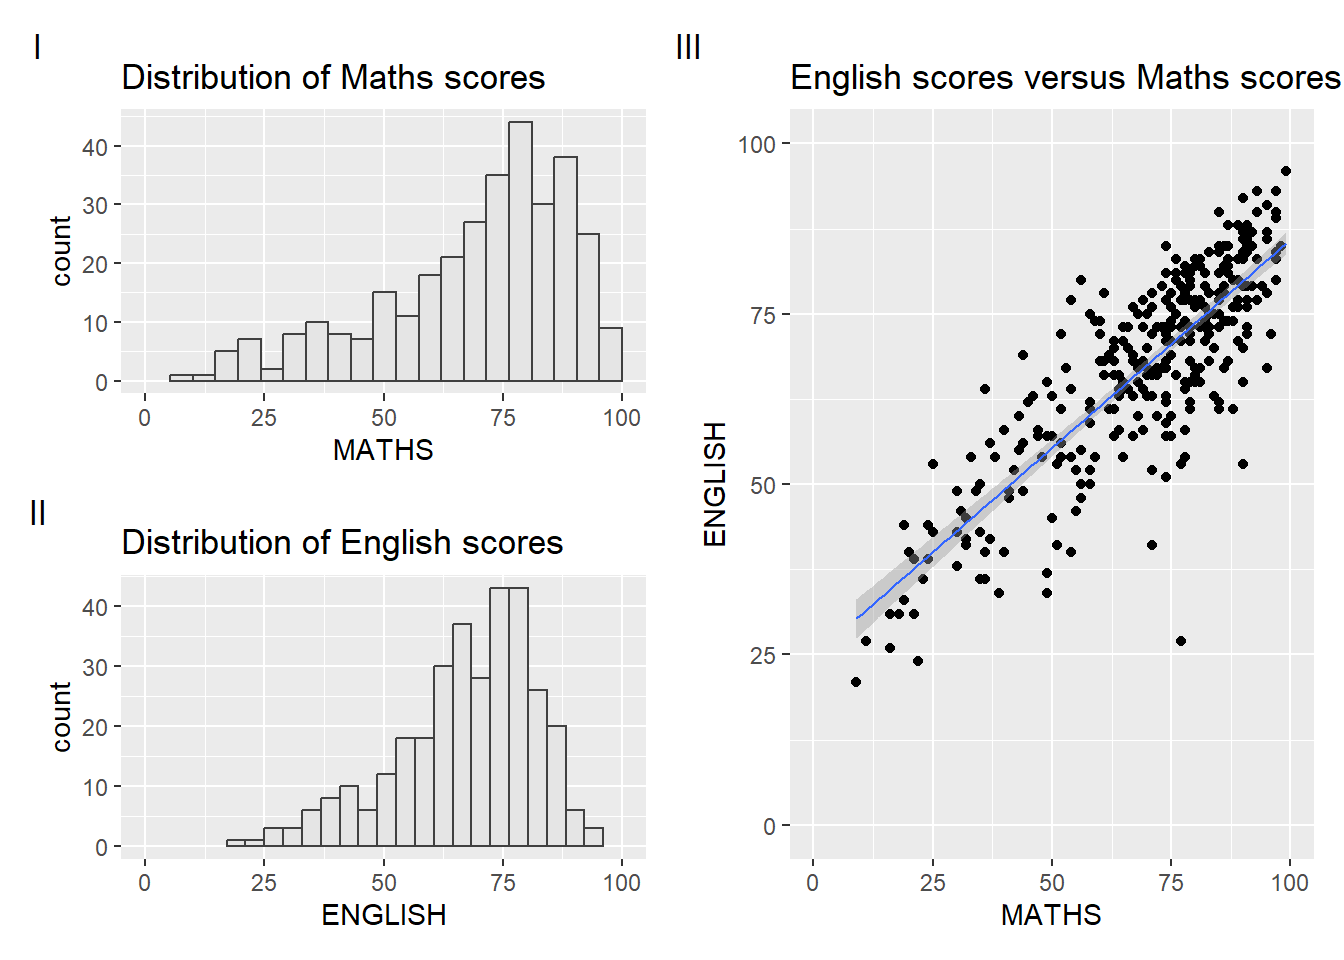
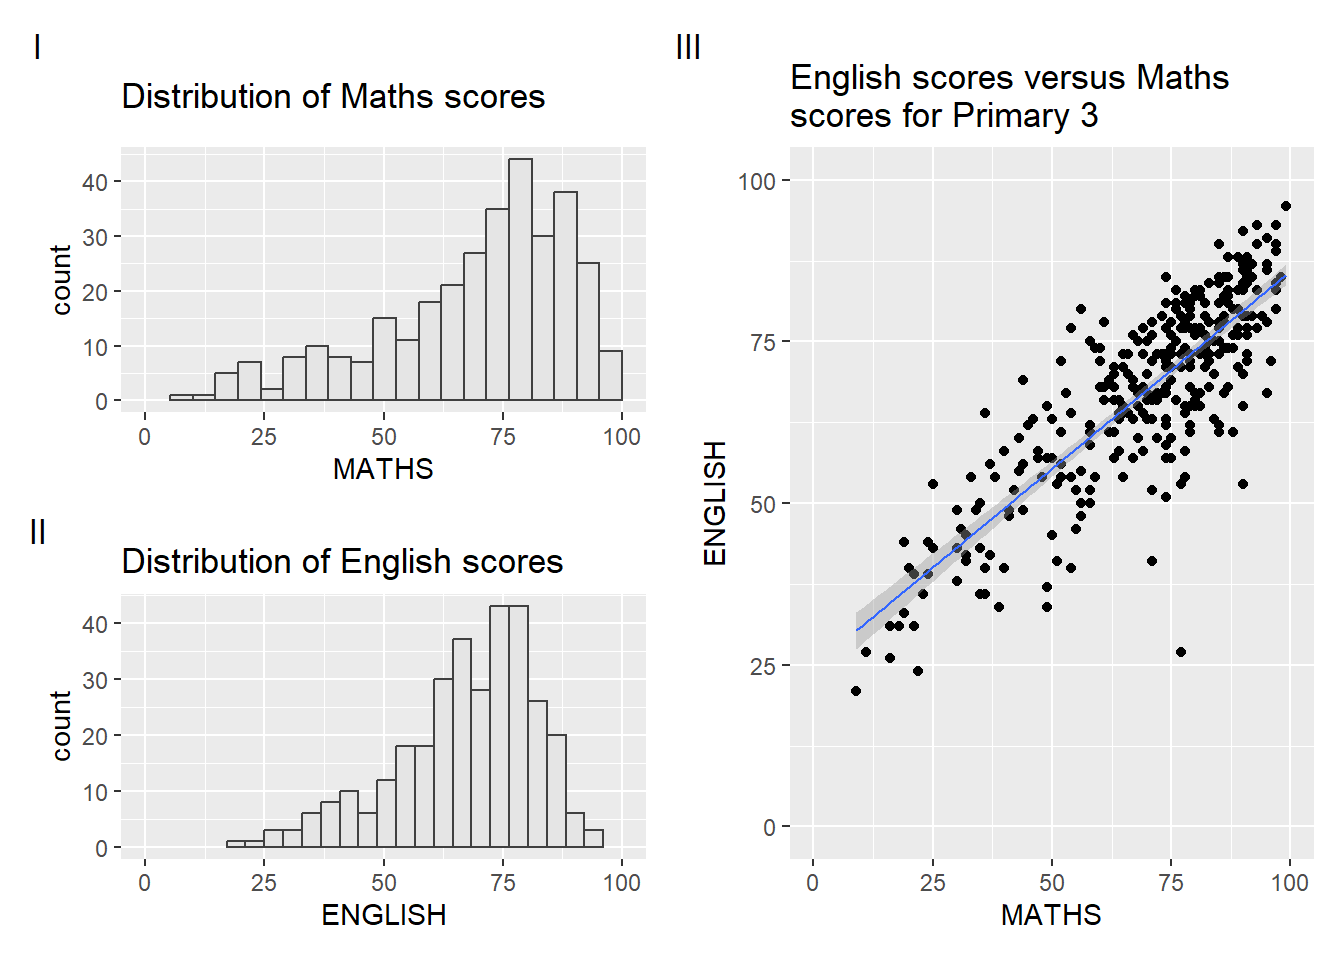
9th commit - Hands on Ex 2 V2

diff --git a/_site/Hands-on-ex/Hands-on-Ex2/Hands-on_Ex2.html b/_site/Hands-on-ex/Hands-on-Ex2/Hands-on_Ex2.html
@@ -123,11 +123,11 @@ pre > code.sourceCode > span > a:first-child::before { text-decoration: underlin
     <ul class="dropdown-menu" aria-labelledby="nav-menu-hands-on-exercises">    
         <li>
     <a class="dropdown-item" href="../../Hands-on-ex/Hands-on-Ex1/Hands-on_Ex1.html" rel="" target="">
- <span class="dropdown-text">Hands-on Exercise 1</span></a>
+ <span class="dropdown-text">Hands-on Exercise 1 - A Layered Grammar of Graphics:ggplot2 methods</span></a>
   </li>  
         <li>
     <a class="dropdown-item" href="../../Hands-on-ex/Hands-on-Ex2/Hands-on_Ex2.html" rel="" target="">
- <span class="dropdown-text">Hands-on Exercise 2</span></a>
+ <span class="dropdown-text">Hands-on Exercise 2 - Beyond ggplot2 fundamentals</span></a>
   </li>  
         <li>
     <a class="dropdown-item" href="../../Hands-on-ex/Hands-on-Ex3/Hands-on_Ex3.html" rel="" target="">
@@ -279,7 +279,7 @@ pre > code.sourceCode > span > a:first-child::before { text-decoration: underlin
     <div>
     <div class="quarto-title-meta-heading">Modified</div>
     <div class="quarto-title-meta-contents">
-      <p class="date-modified">January 10, 2024</p>
+      <p class="date-modified">January 12, 2024</p>
     </div>
   </div>
     
@@ -730,7 +730,7 @@ Note
 <span id="cb22-6"><a href="#cb22-6" aria-hidden="true" tabindex="-1"></a>              <span class="at">size=</span><span class="fl">0.5</span>) <span class="sc">+</span>  </span>
 <span id="cb22-7"><a href="#cb22-7" aria-hidden="true" tabindex="-1"></a>  <span class="fu">coord_cartesian</span>(<span class="at">xlim=</span><span class="fu">c</span>(<span class="dv">0</span>,<span class="dv">100</span>),</span>
 <span id="cb22-8"><a href="#cb22-8" aria-hidden="true" tabindex="-1"></a>                  <span class="at">ylim=</span><span class="fu">c</span>(<span class="dv">0</span>,<span class="dv">100</span>)) <span class="sc">+</span></span>
-<span id="cb22-9"><a href="#cb22-9" aria-hidden="true" tabindex="-1"></a>  <span class="fu">ggtitle</span>(<span class="st">"English scores versus Maths scores for Primary 3"</span>)</span>
+<span id="cb22-9"><a href="#cb22-9" aria-hidden="true" tabindex="-1"></a>  <span class="fu">ggtitle</span>(<span class="st">"English scores versus Maths</span><span class="sc">\n</span><span class="st">scores for Primary 3"</span>)</span>
 <span id="cb22-10"><a href="#cb22-10" aria-hidden="true" tabindex="-1"></a></span>
 <span id="cb22-11"><a href="#cb22-11" aria-hidden="true" tabindex="-1"></a>plot3</span></code><button title="Copy to Clipboard" class="code-copy-button"><i class="bi"></i></button></pre></div>
 </details>
@@ -806,6 +806,10 @@ The composite figure below was plotted using</p>
 <section id="creating-a-composite-figure-with-tags" class="level2">
 <h2 class="anchored" data-anchor-id="creating-a-composite-figure-with-tags">2.5.4 Creating a composite figure with tags</h2>
 <p>In order to identify subplots in text,&nbsp;<strong>patchwork</strong>&nbsp;also provides auto-tagging capabilities as shown in the figure below.</p>
+<div class="tabset-margin-container"></div><div class="panel-tabset">
+<ul class="nav nav-tabs" role="tablist"><li class="nav-item" role="presentation"><a class="nav-link active" id="tabset-5-1-tab" data-bs-toggle="tab" data-bs-target="#tabset-5-1" role="tab" aria-controls="tabset-5-1" aria-selected="true">Numerals</a></li><li class="nav-item" role="presentation"><a class="nav-link" id="tabset-5-2-tab" data-bs-toggle="tab" data-bs-target="#tabset-5-2" role="tab" aria-controls="tabset-5-2" aria-selected="false">Digits</a></li><li class="nav-item" role="presentation"><a class="nav-link" id="tabset-5-3-tab" data-bs-toggle="tab" data-bs-target="#tabset-5-3" role="tab" aria-controls="tabset-5-3" aria-selected="false">Letters</a></li></ul>
+<div class="tab-content">
+<div id="tabset-5-1" class="tab-pane active" role="tabpanel" aria-labelledby="tabset-5-1-tab">
 <div class="cell">
 <div class="sourceCode cell-code" id="cb27"><pre class="sourceCode r code-with-copy"><code class="sourceCode r"><span id="cb27-1"><a href="#cb27-1" aria-hidden="true" tabindex="-1"></a>((plot1 <span class="sc">/</span> plot2) <span class="sc">|</span> plot3) <span class="sc">+</span> </span>
 <span id="cb27-2"><a href="#cb27-2" aria-hidden="true" tabindex="-1"></a>  <span class="fu">plot_annotation</span>(<span class="at">tag_levels =</span> <span class="st">'I'</span>)</span></code><button title="Copy to Clipboard" class="code-copy-button"><i class="bi"></i></button></pre></div>
@@ -813,18 +817,39 @@ The composite figure below was plotted using</p>
 <p><img src="Hands-on_Ex2_files/figure-html/unnamed-chunk-25-1.png" class="img-fluid" width="672"></p>
 </div>
 </div>
+</div>
+<div id="tabset-5-2" class="tab-pane" role="tabpanel" aria-labelledby="tabset-5-2-tab">
+<div class="cell">
+<div class="sourceCode cell-code" id="cb28"><pre class="sourceCode r code-with-copy"><code class="sourceCode r"><span id="cb28-1"><a href="#cb28-1" aria-hidden="true" tabindex="-1"></a>((plot1 <span class="sc">/</span> plot2) <span class="sc">|</span> plot3) <span class="sc">+</span> </span>
+<span id="cb28-2"><a href="#cb28-2" aria-hidden="true" tabindex="-1"></a>  <span class="fu">plot_annotation</span>(<span class="at">tag_levels =</span> <span class="st">'1'</span>)</span></code><button title="Copy to Clipboard" class="code-copy-button"><i class="bi"></i></button></pre></div>
+<div class="cell-output-display">
+<p><img src="Hands-on_Ex2_files/figure-html/unnamed-chunk-26-1.png" class="img-fluid" width="672"></p>
+</div>
+</div>
+</div>
+<div id="tabset-5-3" class="tab-pane" role="tabpanel" aria-labelledby="tabset-5-3-tab">
+<div class="cell">
+<div class="sourceCode cell-code" id="cb29"><pre class="sourceCode r code-with-copy"><code class="sourceCode r"><span id="cb29-1"><a href="#cb29-1" aria-hidden="true" tabindex="-1"></a>((plot1 <span class="sc">/</span> plot2) <span class="sc">|</span> plot3) <span class="sc">+</span> </span>
+<span id="cb29-2"><a href="#cb29-2" aria-hidden="true" tabindex="-1"></a>  <span class="fu">plot_annotation</span>(<span class="at">tag_levels =</span> <span class="st">'A'</span>)</span></code><button title="Copy to Clipboard" class="code-copy-button"><i class="bi"></i></button></pre></div>
+<div class="cell-output-display">
+<p><img src="Hands-on_Ex2_files/figure-html/unnamed-chunk-27-1.png" class="img-fluid" width="672"></p>
+</div>
+</div>
+</div>
+</div>
+</div>
 </section>
 <section id="creating-figures-with-insert" class="level2">
 <h2 class="anchored" data-anchor-id="creating-figures-with-insert">2.5.5 Creating figures with insert</h2>
 <p>Besides providing functions to place plots next to each other, we can also use the function <a href="https://patchwork.data-imaginist.com/reference/inset_element.html"><code>inset_element()</code></a> to place one or several plots or graphic elements within another plot.</p>
 <div class="cell">
-<div class="sourceCode cell-code" id="cb28"><pre class="sourceCode r code-with-copy"><code class="sourceCode r"><span id="cb28-1"><a href="#cb28-1" aria-hidden="true" tabindex="-1"></a>plot3 <span class="sc">+</span> <span class="fu">inset_element</span>(plot2, </span>
-<span id="cb28-2"><a href="#cb28-2" aria-hidden="true" tabindex="-1"></a>                   <span class="at">left =</span> <span class="fl">0.02</span>, </span>
-<span id="cb28-3"><a href="#cb28-3" aria-hidden="true" tabindex="-1"></a>                   <span class="at">bottom =</span> <span class="fl">0.7</span>, </span>
-<span id="cb28-4"><a href="#cb28-4" aria-hidden="true" tabindex="-1"></a>                   <span class="at">right =</span> <span class="fl">0.5</span>, </span>
-<span id="cb28-5"><a href="#cb28-5" aria-hidden="true" tabindex="-1"></a>                   <span class="at">top =</span> <span class="dv">1</span>)</span></code><button title="Copy to Clipboard" class="code-copy-button"><i class="bi"></i></button></pre></div>
+<div class="sourceCode cell-code" id="cb30"><pre class="sourceCode r code-with-copy"><code class="sourceCode r"><span id="cb30-1"><a href="#cb30-1" aria-hidden="true" tabindex="-1"></a>plot3 <span class="sc">+</span> <span class="fu">inset_element</span>(plot2, </span>
+<span id="cb30-2"><a href="#cb30-2" aria-hidden="true" tabindex="-1"></a>                   <span class="at">left =</span> <span class="fl">0.02</span>, </span>
+<span id="cb30-3"><a href="#cb30-3" aria-hidden="true" tabindex="-1"></a>                   <span class="at">bottom =</span> <span class="fl">0.7</span>, </span>
+<span id="cb30-4"><a href="#cb30-4" aria-hidden="true" tabindex="-1"></a>                   <span class="at">right =</span> <span class="fl">0.5</span>, </span>
+<span id="cb30-5"><a href="#cb30-5" aria-hidden="true" tabindex="-1"></a>                   <span class="at">top =</span> <span class="dv">1</span>)</span></code><button title="Copy to Clipboard" class="code-copy-button"><i class="bi"></i></button></pre></div>
 <div class="cell-output-display">
-<p><img src="Hands-on_Ex2_files/figure-html/unnamed-chunk-26-1.png" class="img-fluid" width="672"></p>
+<p><img src="Hands-on_Ex2_files/figure-html/unnamed-chunk-28-1.png" class="img-fluid" width="672"></p>
 </div>
 </div>
 </section>
@@ -834,18 +859,92 @@ The composite figure below was plotted using</p>
 <div class="cell">
 <details>
 <summary>Show the code</summary>
-<div class="sourceCode cell-code" id="cb29"><pre class="sourceCode r code-with-copy"><code class="sourceCode r"><span id="cb29-1"><a href="#cb29-1" aria-hidden="true" tabindex="-1"></a>patchwork <span class="ot">&lt;-</span> (plot1 <span class="sc">/</span> plot2) <span class="sc">|</span> plot3</span>
-<span id="cb29-2"><a href="#cb29-2" aria-hidden="true" tabindex="-1"></a>patchwork <span class="sc">&amp;</span> <span class="fu">theme_economist</span>()</span></code><button title="Copy to Clipboard" class="code-copy-button"><i class="bi"></i></button></pre></div>
+<div class="sourceCode cell-code" id="cb31"><pre class="sourceCode r code-with-copy"><code class="sourceCode r"><span id="cb31-1"><a href="#cb31-1" aria-hidden="true" tabindex="-1"></a>patchwork <span class="ot">&lt;-</span> (plot1 <span class="sc">/</span> plot2) <span class="sc">|</span> plot3</span>
+<span id="cb31-2"><a href="#cb31-2" aria-hidden="true" tabindex="-1"></a>patchwork <span class="sc">&amp;</span> <span class="fu">theme_economist</span>()</span></code><button title="Copy to Clipboard" class="code-copy-button"><i class="bi"></i></button></pre></div>
 </details>
 <div class="cell-output-display">
-<p><img src="Hands-on_Ex2_files/figure-html/unnamed-chunk-27-1.png" class="img-fluid" width="672"></p>
+<p><img src="Hands-on_Ex2_files/figure-html/unnamed-chunk-29-1.png" class="img-fluid" width="672"></p>
 </div>
 </div>
 </section>
 </section>
 <section id="plotting-practice" class="level1">
 <h1>2.6 Plotting Practice</h1>
-<p>Below are some customized plots</p>
+<ol type="1">
+<li>Changing themes, plot and axis title sizes</li>
+</ol>
+<div class="tabset-margin-container"></div><div class="panel-tabset">
+<ul class="nav nav-tabs" role="tablist"><li class="nav-item" role="presentation"><a class="nav-link active" id="tabset-6-1-tab" data-bs-toggle="tab" data-bs-target="#tabset-6-1" role="tab" aria-controls="tabset-6-1" aria-selected="true">theme_fivethirtyeight</a></li><li class="nav-item" role="presentation"><a class="nav-link" id="tabset-6-2-tab" data-bs-toggle="tab" data-bs-target="#tabset-6-2" role="tab" aria-controls="tabset-6-2" aria-selected="false">theme_economist</a></li><li class="nav-item" role="presentation"><a class="nav-link" id="tabset-6-3-tab" data-bs-toggle="tab" data-bs-target="#tabset-6-3" role="tab" aria-controls="tabset-6-3" aria-selected="false">theme_wsj</a></li></ul>
+<div class="tab-content">
+<div id="tabset-6-1" class="tab-pane active" role="tabpanel" aria-labelledby="tabset-6-1-tab">
+<div class="cell">
+<details>
+<summary>Show the code</summary>
+<div class="sourceCode cell-code" id="cb32"><pre class="sourceCode r code-with-copy"><code class="sourceCode r"><span id="cb32-1"><a href="#cb32-1" aria-hidden="true" tabindex="-1"></a>patchwork <span class="ot">&lt;-</span> (plot1 <span class="sc">/</span> plot2) <span class="sc">|</span> plot3</span>
+<span id="cb32-2"><a href="#cb32-2" aria-hidden="true" tabindex="-1"></a></span>
+<span id="cb32-3"><a href="#cb32-3" aria-hidden="true" tabindex="-1"></a>patchwork <span class="sc">&amp;</span> <span class="fu">theme_fivethirtyeight</span>() <span class="sc">+</span></span>
+<span id="cb32-4"><a href="#cb32-4" aria-hidden="true" tabindex="-1"></a>  <span class="fu">theme</span>(<span class="at">plot.title=</span><span class="fu">element_text</span>(<span class="at">size =</span><span class="dv">10</span>),</span>
+<span id="cb32-5"><a href="#cb32-5" aria-hidden="true" tabindex="-1"></a>        <span class="at">axis.title.y=</span><span class="fu">element_text</span>(<span class="at">size =</span> <span class="dv">9</span>,</span>
+<span id="cb32-6"><a href="#cb32-6" aria-hidden="true" tabindex="-1"></a>                              <span class="at">angle =</span> <span class="dv">0</span>,</span>
+<span id="cb32-7"><a href="#cb32-7" aria-hidden="true" tabindex="-1"></a>                              <span class="at">vjust=</span><span class="fl">0.9</span>),</span>
+<span id="cb32-8"><a href="#cb32-8" aria-hidden="true" tabindex="-1"></a>        <span class="at">axis.title.x=</span><span class="fu">element_text</span>(<span class="at">size =</span> <span class="dv">9</span>))</span></code><button title="Copy to Clipboard" class="code-copy-button"><i class="bi"></i></button></pre></div>
+</details>
+<div class="cell-output-display">
+<p><img src="Hands-on_Ex2_files/figure-html/unnamed-chunk-30-1.png" class="img-fluid" width="672"></p>
+</div>
+</div>
+</div>
+<div id="tabset-6-2" class="tab-pane" role="tabpanel" aria-labelledby="tabset-6-2-tab">
+<div class="cell">
+<details>
+<summary>Show the code</summary>
+<div class="sourceCode cell-code" id="cb33"><pre class="sourceCode r code-with-copy"><code class="sourceCode r"><span id="cb33-1"><a href="#cb33-1" aria-hidden="true" tabindex="-1"></a>patchwork <span class="ot">&lt;-</span> (plot1 <span class="sc">/</span> plot2) <span class="sc">|</span> plot3</span>
+<span id="cb33-2"><a href="#cb33-2" aria-hidden="true" tabindex="-1"></a></span>
+<span id="cb33-3"><a href="#cb33-3" aria-hidden="true" tabindex="-1"></a>patchwork <span class="sc">&amp;</span> <span class="fu">theme_economist</span>() <span class="sc">+</span></span>
+<span id="cb33-4"><a href="#cb33-4" aria-hidden="true" tabindex="-1"></a>  <span class="fu">theme</span>(<span class="at">plot.title=</span><span class="fu">element_text</span>(<span class="at">size =</span><span class="dv">10</span>),</span>
+<span id="cb33-5"><a href="#cb33-5" aria-hidden="true" tabindex="-1"></a>        <span class="at">axis.title.y=</span><span class="fu">element_text</span>(<span class="at">size =</span> <span class="dv">9</span>,</span>
+<span id="cb33-6"><a href="#cb33-6" aria-hidden="true" tabindex="-1"></a>                              <span class="at">angle =</span> <span class="dv">0</span>,</span>
+<span id="cb33-7"><a href="#cb33-7" aria-hidden="true" tabindex="-1"></a>                              <span class="at">vjust=</span><span class="fl">0.9</span>),</span>
+<span id="cb33-8"><a href="#cb33-8" aria-hidden="true" tabindex="-1"></a>        <span class="at">axis.title.x=</span><span class="fu">element_text</span>(<span class="at">size =</span> <span class="dv">9</span>))</span></code><button title="Copy to Clipboard" class="code-copy-button"><i class="bi"></i></button></pre></div>
+</details>
+<div class="cell-output-display">
+<p><img src="Hands-on_Ex2_files/figure-html/unnamed-chunk-31-1.png" class="img-fluid" width="672"></p>
+</div>
+</div>
+</div>
+<div id="tabset-6-3" class="tab-pane" role="tabpanel" aria-labelledby="tabset-6-3-tab">
+<div class="cell">
+<details>
+<summary>Show the code</summary>
+<div class="sourceCode cell-code" id="cb34"><pre class="sourceCode r code-with-copy"><code class="sourceCode r"><span id="cb34-1"><a href="#cb34-1" aria-hidden="true" tabindex="-1"></a>patchwork <span class="ot">&lt;-</span> (plot1 <span class="sc">/</span> plot2) <span class="sc">|</span> plot3</span>
+<span id="cb34-2"><a href="#cb34-2" aria-hidden="true" tabindex="-1"></a></span>
+<span id="cb34-3"><a href="#cb34-3" aria-hidden="true" tabindex="-1"></a>patchwork <span class="sc">&amp;</span> <span class="fu">theme_wsj</span>() <span class="sc">+</span></span>
+<span id="cb34-4"><a href="#cb34-4" aria-hidden="true" tabindex="-1"></a>  <span class="fu">theme</span>(<span class="at">plot.title=</span><span class="fu">element_text</span>(<span class="at">size =</span><span class="dv">10</span>),</span>
+<span id="cb34-5"><a href="#cb34-5" aria-hidden="true" tabindex="-1"></a>        <span class="at">axis.title.y=</span><span class="fu">element_text</span>(<span class="at">size =</span> <span class="dv">9</span>,</span>
+<span id="cb34-6"><a href="#cb34-6" aria-hidden="true" tabindex="-1"></a>                              <span class="at">angle =</span> <span class="dv">0</span>,</span>
+<span id="cb34-7"><a href="#cb34-7" aria-hidden="true" tabindex="-1"></a>                              <span class="at">vjust=</span><span class="fl">0.9</span>),</span>
+<span id="cb34-8"><a href="#cb34-8" aria-hidden="true" tabindex="-1"></a>        <span class="at">axis.title.x=</span><span class="fu">element_text</span>(<span class="at">size =</span> <span class="dv">9</span>))</span></code><button title="Copy to Clipboard" class="code-copy-button"><i class="bi"></i></button></pre></div>
+</details>
+<div class="cell-output-display">
+<p><img src="Hands-on_Ex2_files/figure-html/unnamed-chunk-32-1.png" class="img-fluid" width="672"></p>
+</div>
+</div>
+</div>
+</div>
+</div>
+<div class="callout callout-style-default callout-note callout-titled">
+<div class="callout-header d-flex align-content-center">
+<div class="callout-icon-container">
+<i class="callout-icon"></i>
+</div>
+<div class="callout-title-container flex-fill">
+Note
+</div>
+</div>
+<div class="callout-body-container callout-body">
+<p>To customize individual plot’s text sizes or orientation, we will need to change the respective codes for each plot seperately,</p>
+</div>
+</div>
 </section>
 <section id="reference" class="level1">
 <h1>2.7 Reference</h1>

diff --git a/_site/Hands-on-ex/Hands-on-Ex1/Hands-on_Ex1.html b/_site/Hands-on-ex/Hands-on-Ex1/Hands-on_Ex1.html
@@ -123,11 +123,11 @@ pre > code.sourceCode > span > a:first-child::before { text-decoration: underlin
     <ul class="dropdown-menu" aria-labelledby="nav-menu-hands-on-exercises">    
         <li>
     <a class="dropdown-item" href="../../Hands-on-ex/Hands-on-Ex1/Hands-on_Ex1.html" rel="" target="">
- <span class="dropdown-text">Hands-on Exercise 1</span></a>
+ <span class="dropdown-text">Hands-on Exercise 1 - A Layered Grammar of Graphics:ggplot2 methods</span></a>
   </li>  
         <li>
     <a class="dropdown-item" href="../../Hands-on-ex/Hands-on-Ex2/Hands-on_Ex2.html" rel="" target="">
- <span class="dropdown-text">Hands-on Exercise 2</span></a>
+ <span class="dropdown-text">Hands-on Exercise 2 - Beyond ggplot2 fundamentals</span></a>
   </li>  
         <li>
     <a class="dropdown-item" href="../../Hands-on-ex/Hands-on-Ex3/Hands-on_Ex3.html" rel="" target="">
